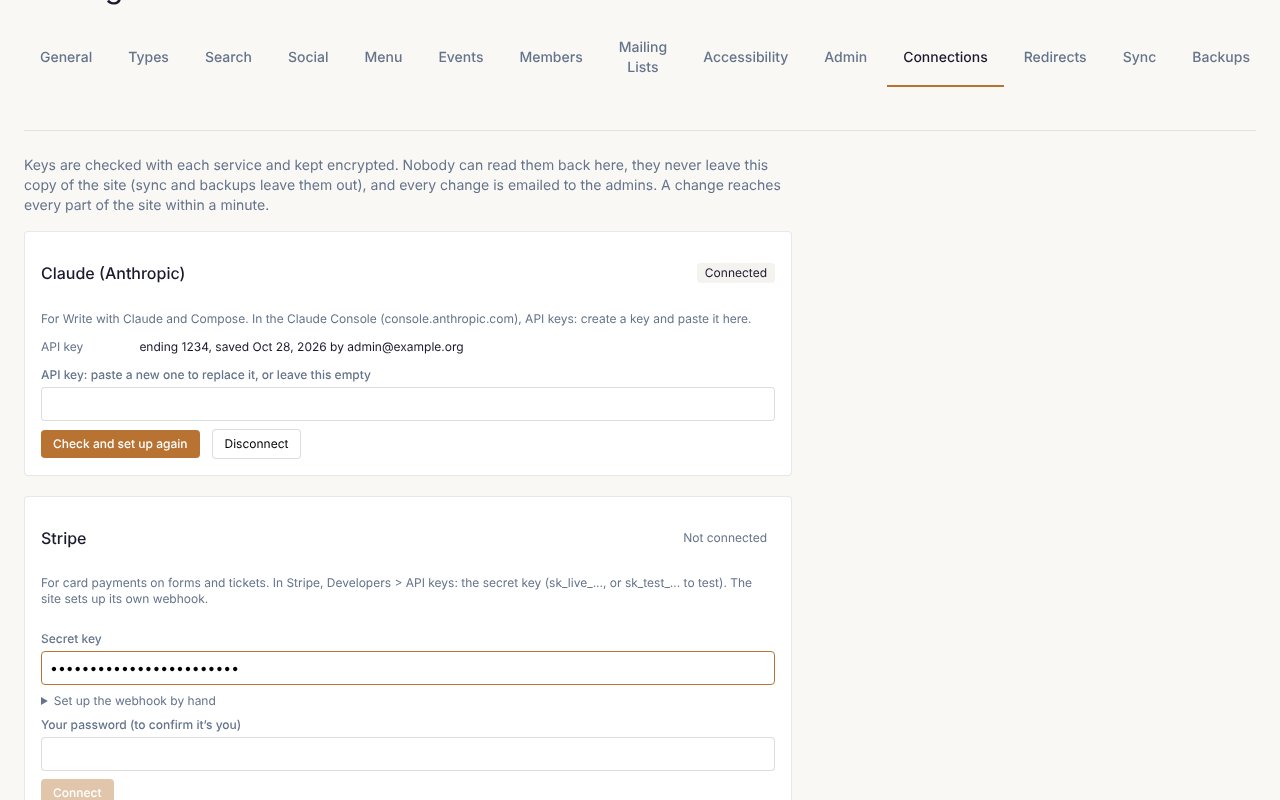
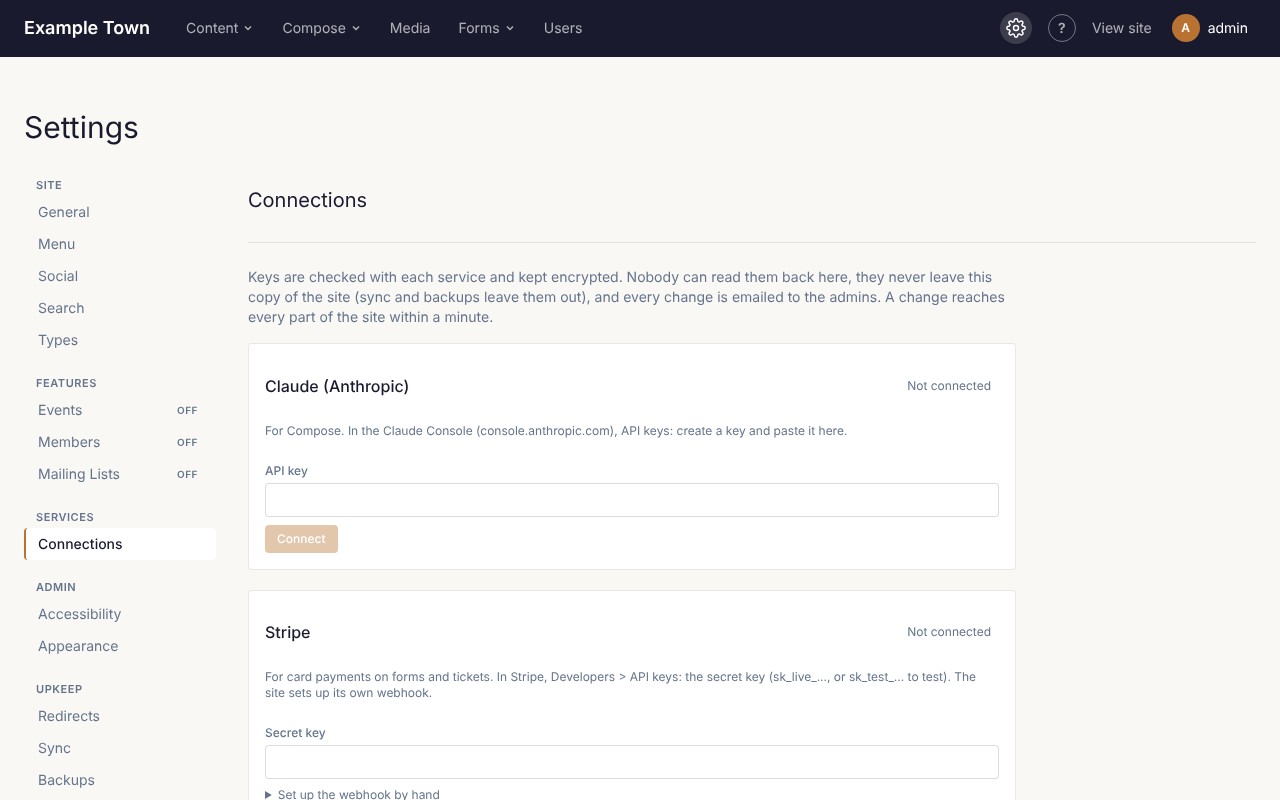
Guide: the new Content and Compose menus, Compose buttons and Settings
Text: Compose for forms, templates, parts and patterns from the bar's
Compose menu; Templates under Content; Settings > Menu; the form builder's
Compose. Screenshots retaken with the new bar and labels: Compose, the
form builder, its Compose dialog and Notifications, Media and an image's
details, Settings > Connections, Submissions and Users.

Claude-Session: https://claude.ai/code/session_01BBav2VRnCnaYiKq5puBKN7

diff --git a/src/lib/compose/quick.ts b/src/lib/compose/quick.ts
@@ -1,6 +1,5 @@
-// One short Claude call that answers in a fixed shape: the SEO section's Generate, the excerpt's Write
-// with Claude, a term's or taxonomy's Compose, and an image's alt text (Generate in the media
-// library, with the image). ANTHROPIC_SEO_MODEL (default Haiku 4.5, which is quick). The answer comes as
+// One short Claude call that answers in a fixed shape: the Compose buttons of the SEO section, the
+// excerpt, a term or taxonomy, and an image's alt text (in the media library, with the image). ANTHROPIC_SEO_MODEL (default Haiku 4.5, which is quick). The answer comes as
 // JSON in the shape's schema (structured outputs, output_config.format), not a forced tool call: newer
 // models (Claude Sonnet 5.5, Opus 5.5, Fable 5.1) refuse tool_choice "tool".
 import type Anthropic from '@anthropic-ai/sdk';

diff --git a/docs-site/src/content/docs/guide/page-editor.md b/docs-site/src/content/docs/guide/page-editor.md
@@ -132,7 +132,7 @@ Some pages are made entirely from their template (a home page, often). When you 
 the editor's toolbar says **Editing this page's template**, and the button says **Save & apply**:
 changes go to every page using that template.
 
-To start a new page from a template or a pattern, click **Make a page** beside it in **Templates** (or
+To start a new page from a template or a pattern, click **Make a page** beside it in **Content**, **Templates** (or
 at the top of the editor while editing it). Give the page a title, choose its type and click **Make
 the page**. You get a new draft with a copy of the template's blocks to change freely: editing it
 never changes the template.
@@ -149,5 +149,9 @@ line, or leave the part or pattern out. Click **Move to the trash** to go ahead.
 bottom of **Templates** lists what's there: **Restore** brings one back as it was, and **Delete
 permanently** removes it for good.
 
-The menu's links are changed under **Settings**, not in the header itself. See
+To have Claude build a new template, header, footer or pattern, click **Compose** in the top bar, then
+**Template**, **Template part** or **Pattern**, name it and click **Start**; the editor opens with
+Compose ready (see [Writing with Claude](/cfpuck-cms/guide/writing-with-claude/)).
+
+The menu's links are changed under **Settings**, **Menu**, not in the header itself. See
 [Menu and settings](/cfpuck-cms/guide/menu-and-settings/).

diff --git a/docs-site/src/content/docs/guide/forms.md b/docs-site/src/content/docs/guide/forms.md
@@ -21,7 +21,8 @@ it on any page.
 
 ### Having Claude write it
 
-Click **Compose** at the top of the form builder and say what the form is for, for example:
+Click **Compose** at the top of the form builder and say what the form is for (or start a new form
+this way: **Compose** in the top bar, then **Form**; name it and click **Start**), for example:
 "Volunteer sign-up for the fall festival: name, email, phone, which shifts, T-shirt size. Tell them
 we'll email the schedule a week before." Tick what Claude should write:
 
@@ -34,8 +35,8 @@ we'll email the schedule a week before." Tick what Claude should write:
   form asks for their email address.
 
 Click **Write**. It takes up to a minute. Read what Claude wrote, change anything you like, then click
-**Save**. Nothing is saved until you do. The Confirmation and Notifications tabs also have **Write
-with Claude**, for just that part.
+**Save**. Nothing is saved until you do. The Confirmation and Notifications tabs also have
+**Compose**, for just that part.
 
 ![Compose in the form builder](../../../assets/guide/form-compose.png)
 
